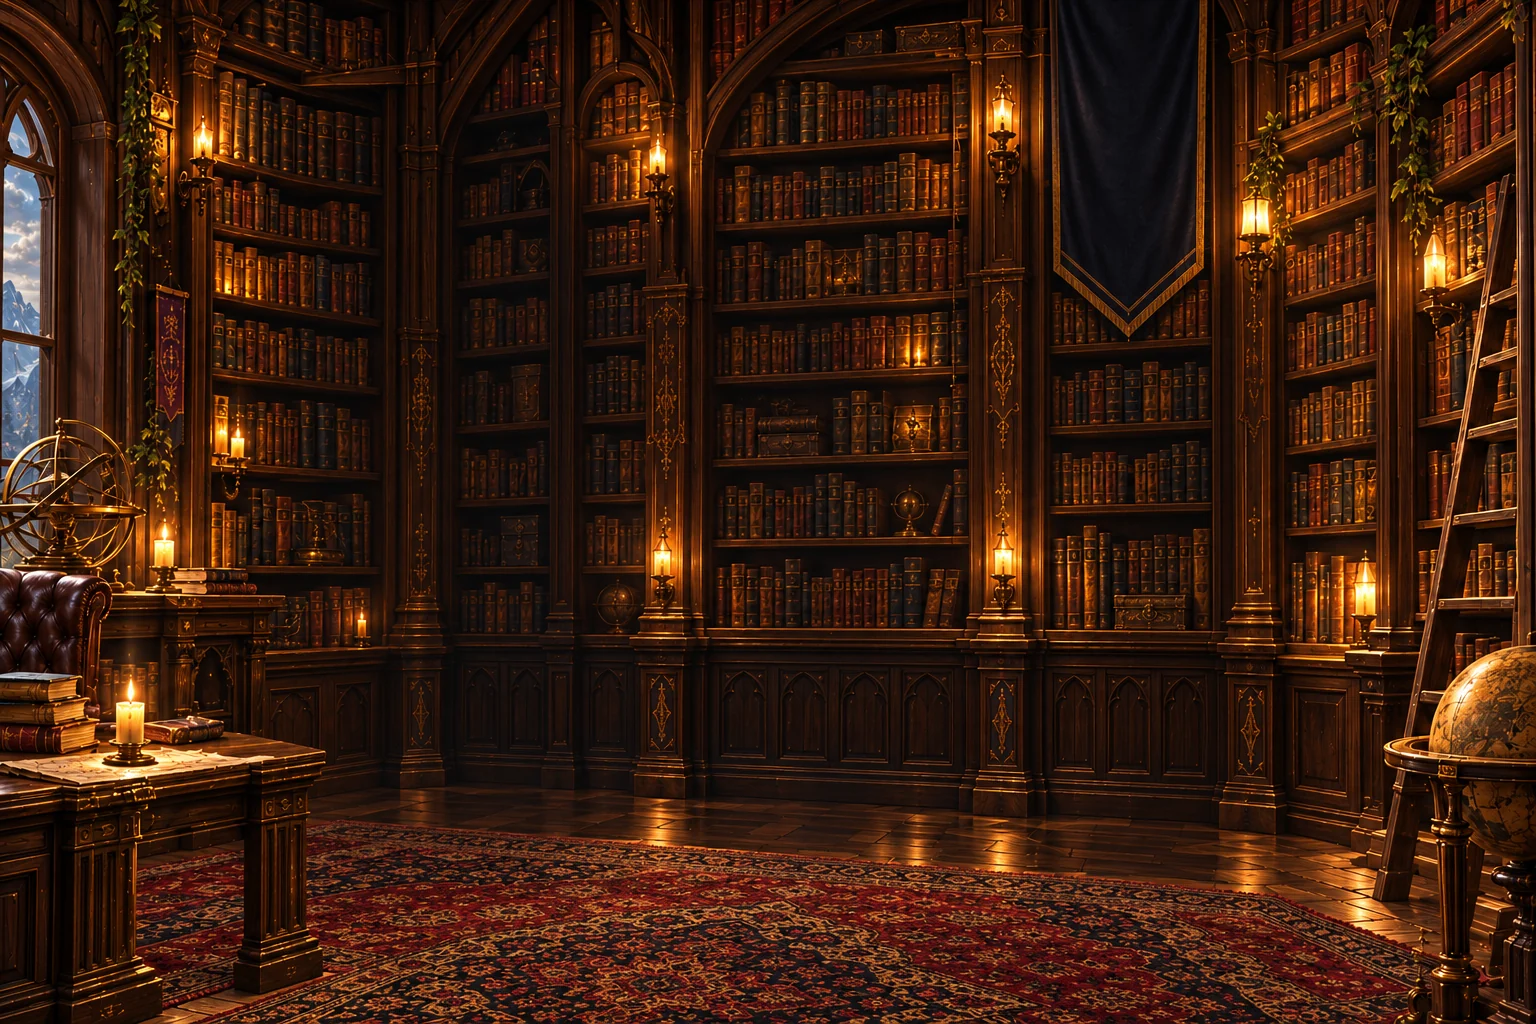
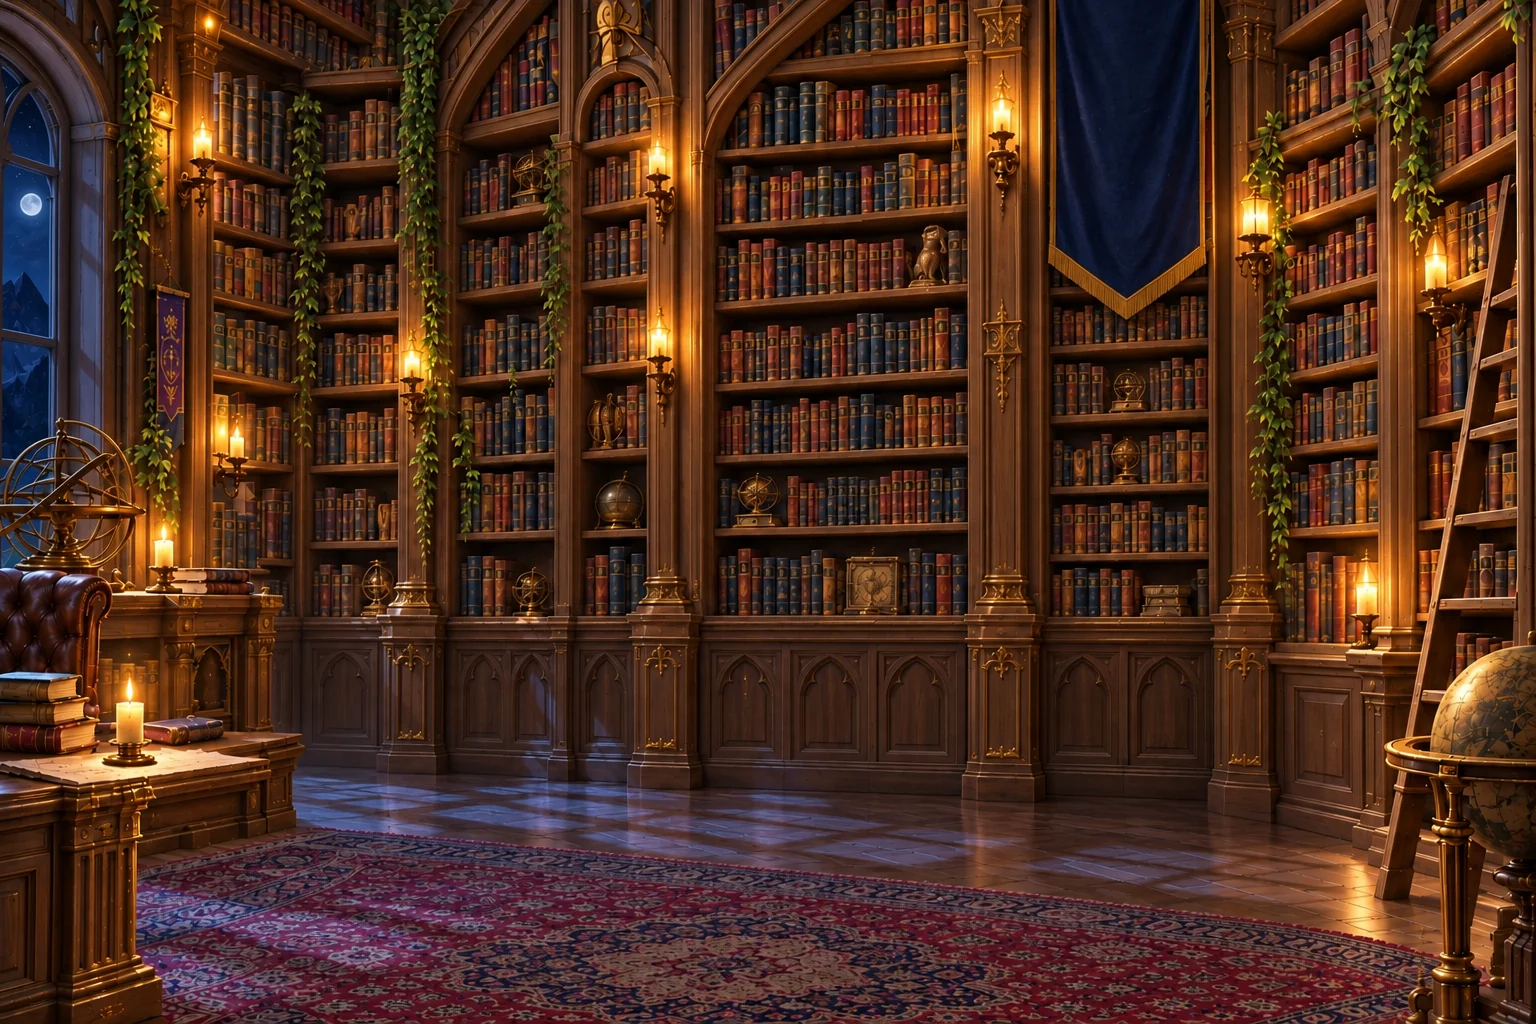
feat: add moonlit library background and day-night crossfade

diff --git a/app/static/library-archive.css b/app/static/library-archive.css
@@ -22,7 +22,6 @@ body.library-archive {
     --archive-panel: #211c18f5;
     --archive-veil: #100a0561;
     --archive-hero: #17120be0;
-    --archive-art: url('images/backgrounds/library-night.webp');
     position: relative;
     isolation: isolate;
     background: var(--background);
@@ -48,7 +47,6 @@ html[data-theme="light"] body.library-archive {
     --archive-panel: #fffaf0f7;
     --archive-veil: #f5ecd522;
     --archive-hero: #fff7e6f0;
-    --archive-art: url('images/backgrounds/library-day.webp');
     --background: var(--color-canvas);
     --surface: var(--color-panel);
     --text: var(--color-text);
@@ -58,9 +56,23 @@ html[data-theme="light"] body.library-archive {
     background: var(--background);
 }
 .library-room { position: fixed; inset: 0; z-index: -1; overflow: hidden; pointer-events: none; }
-.library-room-art { position: absolute; top: 0; left: 50%; width: max(100vw, 150vh); aspect-ratio: 3 / 2; transform: translateX(-50%); background: var(--archive-art) center / cover no-repeat; }
+.library-room-art { position: absolute; top: 0; left: 50%; width: max(100vw, 150vh); aspect-ratio: 3 / 2; transform: translateX(-50%); }
+.library-room-image { position: absolute; inset: 0; display: block; width: 100%; height: 100%; object-fit: cover; }
+.library-room-day { opacity: 0; }
+html[data-theme="light"] .library-room-day { opacity: 1; }
 .library-room::after { content: ''; position: absolute; inset: 0; background: var(--archive-veil); }
 .library-room-seal { position: absolute; left: 70.7%; top: 7%; width: 6.2%; height: 15%; opacity: .85; filter: drop-shadow(0 2px 2px #0008); }
+/* Keep the old frame opaque so the room never dips to black mid-transition. */
+html:has(body.library-archive)::view-transition-old(root) { animation: none; opacity: 1; }
+html:has(body.library-archive)::view-transition-new(root) { animation: archive-time-shift 2200ms cubic-bezier(.4, 0, .2, 1) both; }
+@keyframes archive-time-shift { from { opacity: 0; } to { opacity: 1; } }
+@supports not (view-transition-name: root) {
+    html[data-theme-ready] .library-room-day { transition: opacity 2200ms cubic-bezier(.4, 0, .2, 1); }
+}
+@media (prefers-reduced-motion: reduce) {
+    html:has(body.library-archive)::view-transition-new(root) { animation: none; }
+    html[data-theme-ready] .library-room-day { transition: none; }
+}
 .library-archive .workspace-site-header { background: color-mix(in srgb, var(--color-canvas) 95%, transparent); backdrop-filter: blur(14px); }
 .library-archive .site-footer { background: var(--archive-panel); }
 .library-archive main.library-layout { max-width: 1120px; }

diff --git a/app/templates/index.html b/app/templates/index.html
@@ -16,7 +16,13 @@
 </head>
 <body class="library-page library-archive">
     {% call site_header() %}<a href="{{ url_for('explore.index') }}">Explore games ↗</a>{% endcall %}
-    <div class="library-room" aria-hidden="true"><div class="library-room-art"><svg class="library-room-seal" viewBox="55 40 330 365" focusable="false"><use href="#brand-symbol" /></svg></div></div>
+    <div class="library-room" aria-hidden="true">
+        <div class="library-room-art">
+            <img class="library-room-image library-room-night" src="{{ url_for('static', filename='images/backgrounds/library-night.webp') }}" width="1536" height="1024" alt="" decoding="async" fetchpriority="low">
+            <img class="library-room-image library-room-day" src="{{ url_for('static', filename='images/backgrounds/library-day.webp') }}" width="1536" height="1024" alt="" decoding="async" fetchpriority="low">
+            <svg class="library-room-seal" viewBox="55 40 330 365" focusable="false"><use href="#brand-symbol" /></svg>
+        </div>
+    </div>
     <main class="library-layout">
         <header class="library-hero">
             <div class="hero-copy">

diff --git a/docs/Library-Archive.md b/docs/Library-Archive.md
@@ -6,6 +6,14 @@ and daylight artwork. Its palette is scoped to `body.library-archive` in
 keep their existing themes. The normal theme switch selects the matching
 background without introducing a separate preference.
 
+The night illustration is a lighting edit of the daylight room: the left window
+shows a moon, stars, and dark mountains; cool moonlight replaces sunbeams while
+the existing candles retain their warm glow. Both images load as decorative
+layers before switching. The library uses a 2.2-second view-transition crossfade
+with an opaque old frame, avoiding a dip to black. Browsers without view
+transitions fade the daylight layer with CSS instead. Reduced-motion preferences
+disable both animations. Other screens retain their normal theme transition.
+
 The light palette uses ivory surfaces, espresso text, walnut secondary text,
 bronze outlines, and honey-gold primary actions. The dark palette uses walnut,
 charcoal, cream text, and gold. Nearly opaque panels keep controls and personal
@@ -22,11 +30,12 @@ Shelf retains its existing compact behavior.
 
 Packaged assets:
 
-- `app/static/images/backgrounds/library-night.webp` (about 380 KB).
+- `app/static/images/backgrounds/library-night.webp` (about 325 KB).
 - `app/static/images/backgrounds/library-day.webp` (about 429 KB).
 
-Both were generated individually with the built-in imagegen tool from the
-user-approved mockups. They are encoded to WebP at the original 1536 × 1024
+The daylight room was generated with the built-in imagegen tool from the
+user-approved mockups, then edited into the matching moonlit room. Both are
+encoded to WebP at the original 1536 × 1024
 dimensions. No application UI or game covers are baked into the backgrounds.
 The complete prompts and source filenames are recorded in
 [Library-Artwork-Prompts.json](Library-Artwork-Prompts.json).
